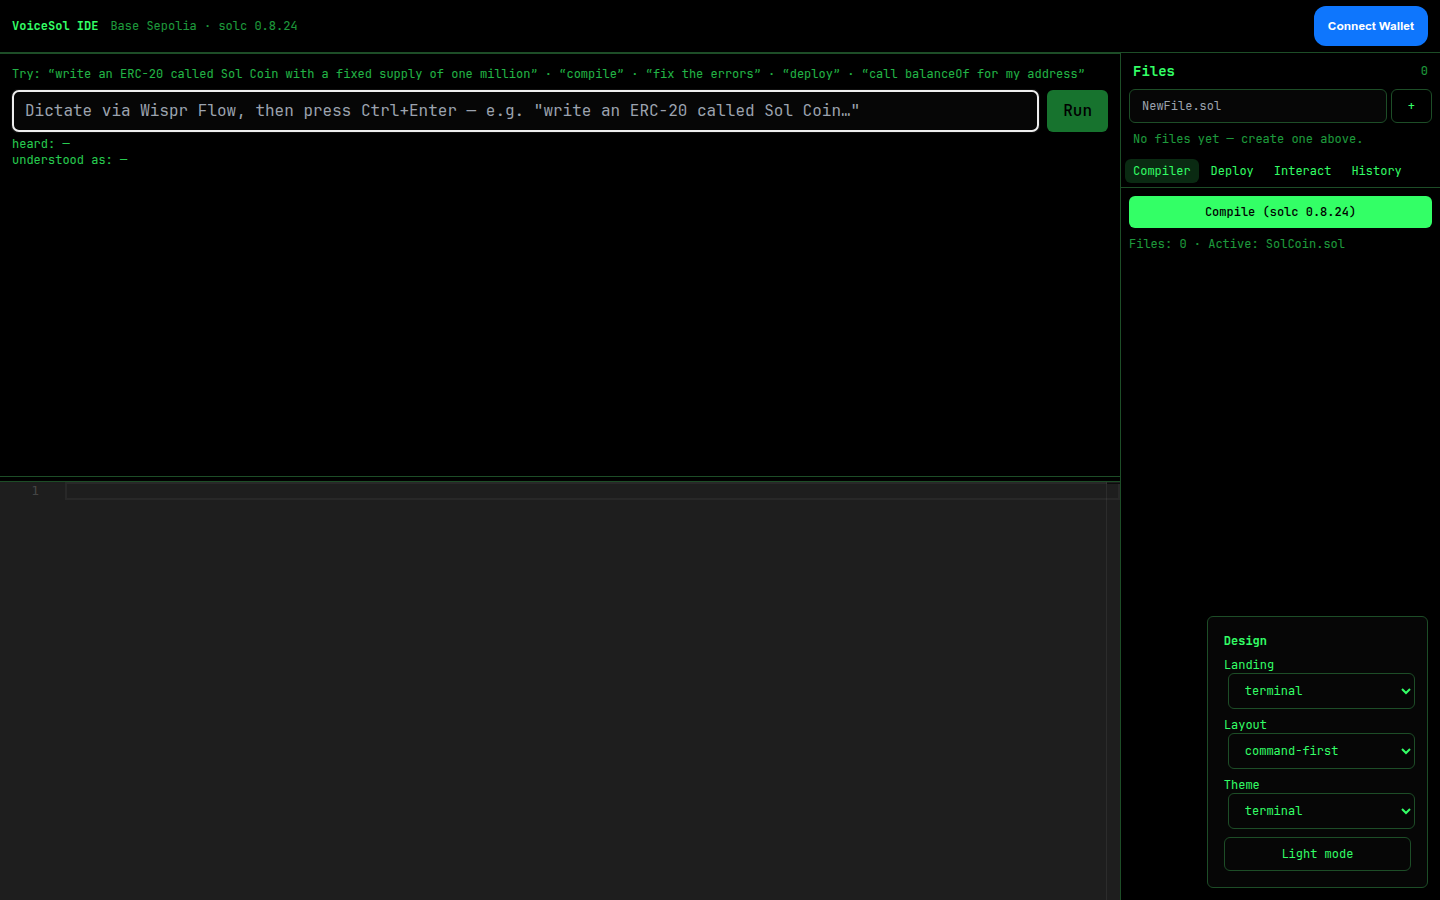
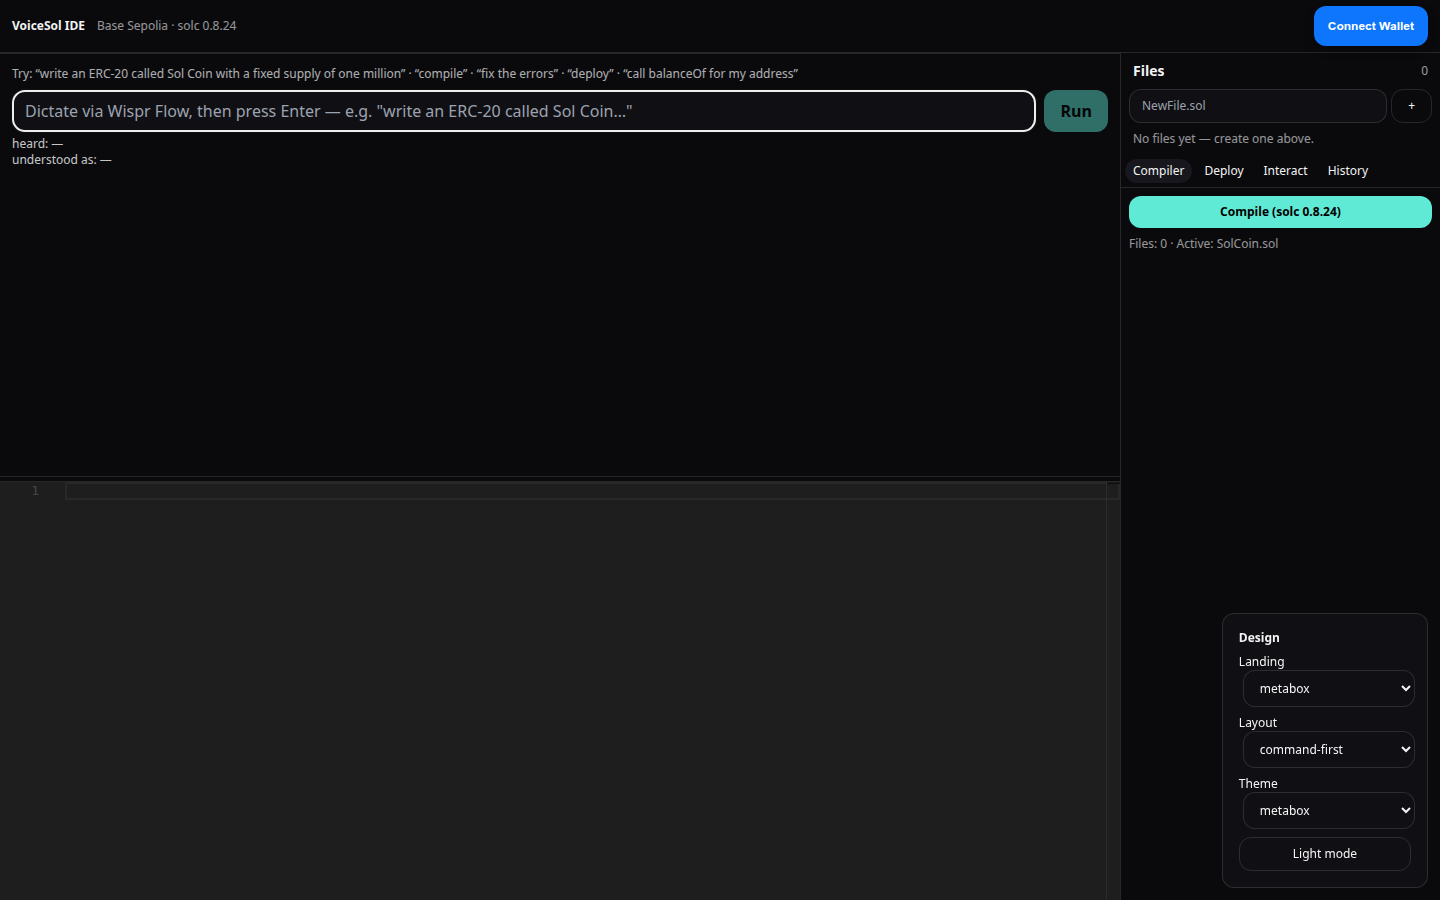
feat: metabox IDE theme matching landing, now default

diff --git a/lib/store/design.ts b/lib/store/design.ts
@@ -2,7 +2,7 @@ import { create } from 'zustand';
 
 export type LandingVariant = 'terminal' | 'clean' | 'gradient' | 'editorial' | 'metabox';
 export type IdeLayout = 'classic' | 'command-first' | 'split' | 'wizard';
-export type IdeTheme = 'terminal' | 'clean' | 'gradient' | 'editorial';
+export type IdeTheme = 'terminal' | 'clean' | 'gradient' | 'editorial' | 'metabox';
 export type ColorMode = 'dark' | 'light';
 
 interface DesignState {
@@ -29,7 +29,7 @@ function read<T extends string>(key: string, fallback: T): T {
 export const useDesign = create<DesignState>()((setState) => ({
   landing: 'metabox',
   layout: 'classic',
-  theme: 'terminal',
+  theme: 'metabox',
   mode: 'dark',
   demoMode: true,
   setLanding: (landing) => { setState({ landing }); try { localStorage.setItem('vs-landing', landing); } catch {} },
@@ -40,7 +40,7 @@ export const useDesign = create<DesignState>()((setState) => ({
   hydrate: () => setState({
     landing: read('vs-landing', 'metabox'),
     layout: read('vs-layout', 'classic'),
-    theme: read('vs-theme', 'terminal'),
+    theme: read('vs-theme', 'metabox'),
     mode: read('vs-mode', 'dark'),
   }),
 }));

diff --git a/app/globals.css b/app/globals.css
@@ -45,6 +45,16 @@
   --vs-card: #1d1915; --vs-border: #3a3129; --vs-font: 'Fraunces', Georgia, serif;
   --vs-font-mono: 'JetBrains Mono', monospace; --vs-radius: 0.25rem;
 }
+[data-theme='metabox'][data-mode='dark'] {
+  --vs-bg: #0a0a0d; --vs-fg: #f4f4f5; --vs-accent: #5eead4; --vs-muted: #17171d;
+  --vs-card: #101014; --vs-border: rgba(255,255,255,0.12); --vs-font: 'Inter', system-ui, sans-serif;
+  --vs-font-mono: 'JetBrains Mono', monospace; --vs-radius: 0.75rem;
+}
+[data-theme='metabox'][data-mode='light'] {
+  --vs-bg: #f4f4f5; --vs-fg: #0a0a0d; --vs-accent: #0d7a6a; --vs-muted: #e4e4e7;
+  --vs-card: #ffffff; --vs-border: #d4d4d8; --vs-font: 'Inter', system-ui, sans-serif;
+  --vs-font-mono: 'JetBrains Mono', monospace; --vs-radius: 0.75rem;
+}
 
 html, body { background: var(--vs-bg); color: var(--vs-fg); }
 body { font-family: var(--vs-font); }

diff --git a/components/design-menu.tsx b/components/design-menu.tsx
@@ -3,7 +3,7 @@ import { useSearchParams, useRouter, usePathname } from 'next/navigation';
 import { useDesign, type LandingVariant, type IdeLayout } from '@/lib/store/design';
 
 const LANDINGS: LandingVariant[] = ['metabox', 'terminal', 'clean', 'gradient', 'editorial'];
-const THEMES = ['terminal', 'clean', 'gradient', 'editorial'];
+const THEMES = ['metabox', 'terminal', 'clean', 'gradient', 'editorial'];
 const LAYOUTS: IdeLayout[] = ['classic', 'command-first', 'split', 'wizard'];
 
 export function DesignMenu(): JSX.Element {
